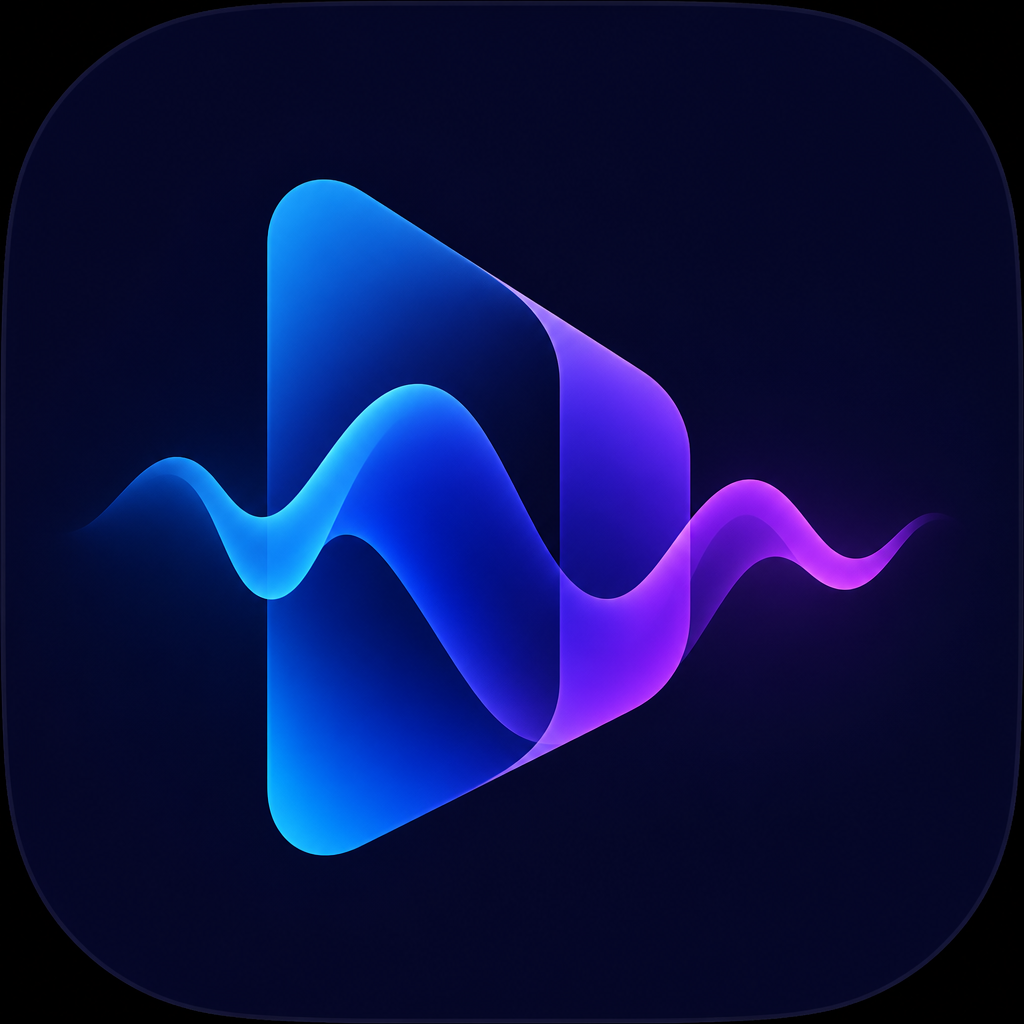
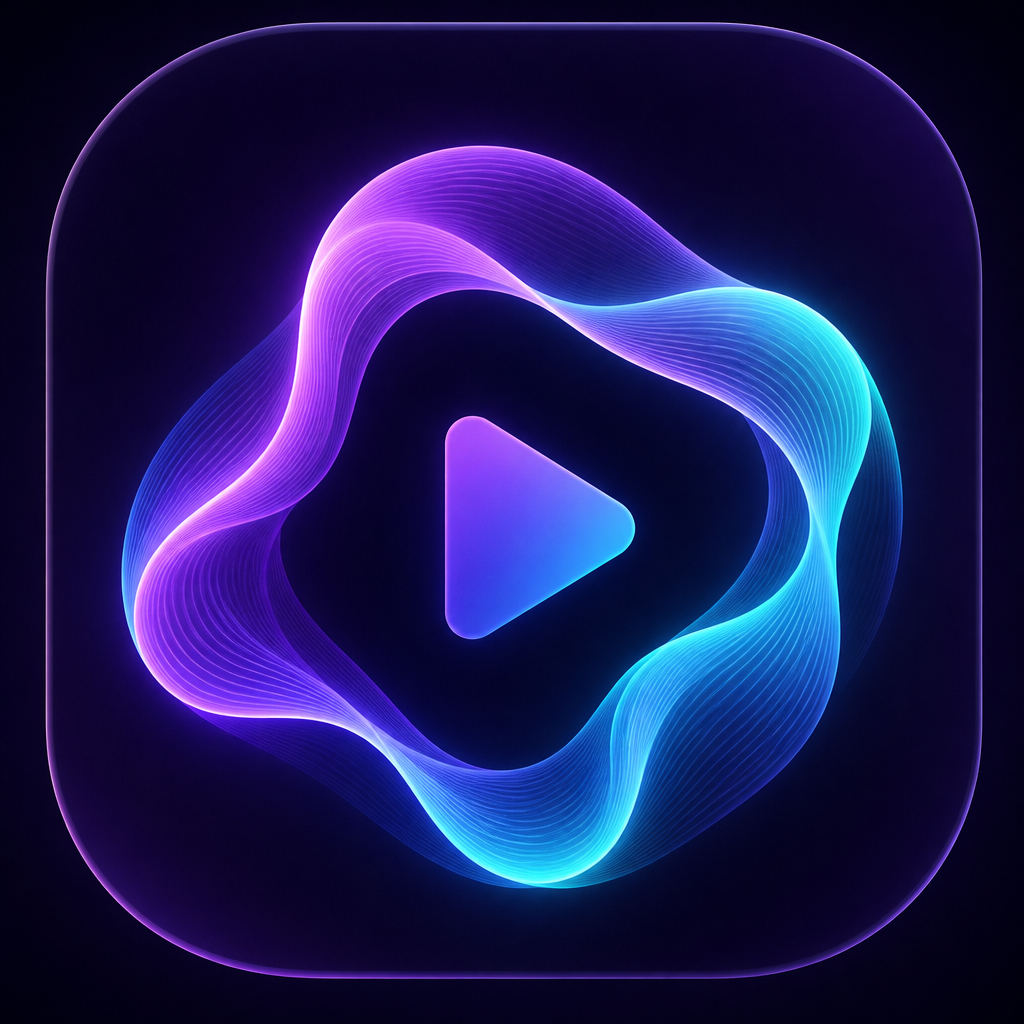
Implement launch animation component and update app configuration
Replit-Commit-Author: Agent

diff --git a/artifacts/offline-music-player/components/LaunchAnimation.tsx b/artifacts/offline-music-player/components/LaunchAnimation.tsx
@@ -1,0 +1,96 @@
+import { LinearGradient } from 'expo-linear-gradient';
+import Animated, {
+  Easing,
+  useAnimatedStyle,
+  useSharedValue,
+  withDelay,
+  withSequence,
+  withTiming,
+} from 'react-native-reanimated';
+import { AccessibilityInfo, Image, StyleSheet, Text, View } from 'react-native';
+import { useEffect, useState } from 'react';
+import { useColors } from '@/hooks/useColors';
+
+const icon = require('@/assets/images/icon.png');
+
+export function LaunchAnimation({ onFinish }: { onFinish: () => void }) {
+  const colors = useColors();
+  const opacity = useSharedValue(1);
+  const markScale = useSharedValue(0.82);
+  const markOpacity = useSharedValue(0);
+  const glowScale = useSharedValue(0.72);
+  const [reduceMotion, setReduceMotion] = useState<boolean | null>(null);
+
+  useEffect(() => {
+    let mounted = true;
+    AccessibilityInfo.isReduceMotionEnabled().then((enabled) => {
+      if (mounted) setReduceMotion(enabled);
+    });
+    const subscription = AccessibilityInfo.addEventListener('reduceMotionChanged', setReduceMotion);
+    return () => {
+      mounted = false;
+      subscription.remove();
+    };
+  }, []);
+
+  useEffect(() => {
+    if (reduceMotion === null) return;
+    if (reduceMotion) {
+      opacity.value = 0;
+      const finishTimer = setTimeout(onFinish, 80);
+      return () => clearTimeout(finishTimer);
+    }
+    markOpacity.value = withDelay(120, withTiming(1, { duration: 420, easing: Easing.out(Easing.cubic) }));
+    markScale.value = withDelay(120, withSequence(
+      withTiming(1.06, { duration: 520, easing: Easing.out(Easing.back(1.3)) }),
+      withTiming(1, { duration: 220, easing: Easing.out(Easing.cubic) }),
+    ));
+    glowScale.value = withSequence(
+      withTiming(1.22, { duration: 900, easing: Easing.out(Easing.quad) }),
+      withTiming(1, { duration: 300 }),
+    );
+    const fadeTimer = setTimeout(() => {
+      opacity.value = withTiming(0, { duration: 300, easing: Easing.out(Easing.cubic) });
+    }, 860);
+    const finishTimer = setTimeout(onFinish, 1180);
+    return () => {
+      clearTimeout(fadeTimer);
+      clearTimeout(finishTimer);
+    };
+  }, [glowScale, markOpacity, markScale, onFinish, opacity, reduceMotion]);
+
+  const overlayStyle = useAnimatedStyle(() => ({ opacity: opacity.value }));
+  const markStyle = useAnimatedStyle(() => ({ opacity: markOpacity.value, transform: [{ scale: markScale.value }] }));
+  const glowStyle = useAnimatedStyle(() => ({ opacity: markOpacity.value * 0.38, transform: [{ scale: glowScale.value }] }));
+
+  return (
+    <Animated.View style={[StyleSheet.absoluteFill, styles.overlay, overlayStyle]}>
+      <LinearGradient colors={[colors.background, colors.accent, colors.background]} locations={[0, 0.48, 1]} style={StyleSheet.absoluteFill} />
+      <View style={styles.center}>
+        <Animated.View style={[styles.glow, { backgroundColor: colors.highlight }, glowStyle]} />
+        <Animated.View style={[styles.markWrap, markStyle]}>
+          <Image source={icon} style={styles.mark} />
+        </Animated.View>
+        <Animated.View style={styles.copy}>
+          <Text style={[styles.name, { color: colors.foreground }]}>LumaWave</Text>
+          <Text style={[styles.tagline, { color: colors.accentForeground }]}>YOUR MUSIC. YOUR MOMENT.</Text>
+        </Animated.View>
+      </View>
+      <View style={styles.bottomNote}><View style={[styles.dot, { backgroundColor: colors.highlight }]} /><Text style={[styles.offline, { color: colors.mutedForeground }]}>OFFLINE BY DESIGN</Text></View>
+    </Animated.View>
+  );
+}
+
+const styles = StyleSheet.create({
+  overlay: { zIndex: 100, backgroundColor: '#0B0C14', alignItems: 'center', justifyContent: 'center' },
+  center: { alignItems: 'center', justifyContent: 'center' },
+  glow: { position: 'absolute', width: 152, height: 152, borderRadius: 76 },
+  markWrap: { width: 112, height: 112, borderRadius: 34, overflow: 'hidden' },
+  mark: { width: '100%', height: '100%' },
+  copy: { alignItems: 'center', marginTop: 22 },
+  name: { fontFamily: 'Inter_700Bold', fontSize: 30, letterSpacing: -0.7 },
+  tagline: { fontFamily: 'Inter_700Bold', fontSize: 9, letterSpacing: 2.1, marginTop: 8 },
+  bottomNote: { position: 'absolute', bottom: 42, flexDirection: 'row', alignItems: 'center', gap: 8 },
+  dot: { width: 6, height: 6, borderRadius: 3 },
+  offline: { fontFamily: 'Inter_700Bold', fontSize: 9, letterSpacing: 1.5 },
+});

diff --git a/artifacts/offline-music-player/constants/colors.ts b/artifacts/offline-music-player/constants/colors.ts
@@ -16,7 +16,7 @@ const colors = {
   light: {
     // Legacy aliases (kept for backward compatibility)
     text: '#F7F8FC',
-    tint: '#8B7CFF',
+    tint: '#A78BFA',
 
     // Core surfaces
     background: '#0C0D12',
@@ -27,49 +27,51 @@ const colors = {
     cardForeground: '#F7F8FC',
 
     // Primary action color (buttons, links, active states)
-    primary: '#8B7CFF',
+    primary: '#A78BFA',
     primaryForeground: '#FFFFFF',
 
     // Secondary / less-emphasis interactive surfaces
-    secondary: '#222431',
+    secondary: '#1D2436',
     secondaryForeground: '#F7F8FC',
 
     // Muted / subdued elements (dividers, timestamps, placeholders)
-    muted: '#242632',
+    muted: '#22283B',
     mutedForeground: '#9295A5',
 
     // Accent highlights (badges, selected items, focus rings)
-    accent: '#312D58',
-    accentForeground: '#D9D5FF',
+    accent: '#30275F',
+    accentForeground: '#E0DAFF',
+    highlight: '#4DE6C2',
 
     // Destructive actions (delete, error states)
     destructive: '#FF6B81',
     destructiveForeground: '#FFFFFF',
 
     // Borders and input outlines
-    border: '#272A37',
-    input: '#2D3040',
+    border: '#2A2E46',
+    input: '#303650',
   },
 
   dark: {
     text: '#F7F8FC',
-    tint: '#8B7CFF',
+    tint: '#A78BFA',
     background: '#0C0D12',
     foreground: '#F7F8FC',
     card: '#171922',
     cardForeground: '#F7F8FC',
-    primary: '#8B7CFF',
+    primary: '#A78BFA',
     primaryForeground: '#FFFFFF',
-    secondary: '#222431',
+    secondary: '#1D2436',
     secondaryForeground: '#F7F8FC',
-    muted: '#242632',
+    muted: '#22283B',
     mutedForeground: '#9295A5',
-    accent: '#312D58',
-    accentForeground: '#D9D5FF',
+    accent: '#30275F',
+    accentForeground: '#E0DAFF',
+    highlight: '#4DE6C2',
     destructive: '#FF6B81',
     destructiveForeground: '#FFFFFF',
-    border: '#272A37',
-    input: '#2D3040',
+    border: '#2A2E46',
+    input: '#303650',
   },
 
   // Border radius (in px). Sync from the sibling web artifact's --radius

diff --git a/artifacts/offline-music-player/app/_layout.tsx b/artifacts/offline-music-player/app/_layout.tsx
@@ -1,4 +1,4 @@
-import React, { useEffect } from 'react';
+import React, { useEffect, useState } from 'react';
 import { QueryClient, QueryClientProvider } from '@tanstack/react-query';
 import { GestureHandlerRootView } from 'react-native-gesture-handler';
 import { KeyboardProvider } from 'react-native-keyboard-controller';
@@ -14,6 +14,8 @@ import {
 import { Stack } from 'expo-router';
 import * as SplashScreen from 'expo-splash-screen';
 import { MusicProvider } from '@/context/MusicContext';
+import { LaunchAnimation } from '@/components/LaunchAnimation';
+import { View } from 'react-native';
 
 // Prevent the splash screen from auto-hiding before asset loading is complete.
 SplashScreen.preventAutoHideAsync();
@@ -22,13 +24,14 @@ const queryClient = new QueryClient();
 
 function RootLayoutNav() {
   return (
-    <Stack screenOptions={{ headerBackTitle: 'Back', animation: 'fade' }}>
+    <Stack screenOptions={{ headerBackTitle: 'Back', animation: 'none' }}>
       <Stack.Screen name="(tabs)" options={{ headerShown: false }} />
     </Stack>
   );
 }
 
 export default function RootLayout() {
+  const [showLaunchAnimation, setShowLaunchAnimation] = useState(true);
   const [fontsLoaded, fontError] = useFonts({
     Inter_400Regular,
     Inter_500Medium,
@@ -49,9 +52,12 @@ export default function RootLayout() {
       <ErrorBoundary>
         <QueryClientProvider client={queryClient}>
           <MusicProvider>
-            <GestureHandlerRootView>
+            <GestureHandlerRootView style={{ flex: 1 }}>
               <KeyboardProvider>
-                <RootLayoutNav />
+                <View style={{ flex: 1 }}>
+                  <RootLayoutNav />
+                  {showLaunchAnimation ? <LaunchAnimation onFinish={() => setShowLaunchAnimation(false)} /> : null}
+                </View>
               </KeyboardProvider>
             </GestureHandlerRootView>
           </MusicProvider>

diff --git a/artifacts/offline-music-player/components/ScreenTransition.tsx b/artifacts/offline-music-player/components/ScreenTransition.tsx
@@ -1,30 +1,6 @@
-import { PropsWithChildren, useCallback } from 'react';
-import { useFocusEffect } from 'expo-router';
-import Animated, {
-  Easing,
-  useAnimatedStyle,
-  useSharedValue,
-  withTiming,
-} from 'react-native-reanimated';
+import { PropsWithChildren } from 'react';
+import { View } from 'react-native';
 
 export function ScreenTransition({ children }: PropsWithChildren) {
-  const progress = useSharedValue(1);
-
-  useFocusEffect(useCallback(() => {
-    progress.value = 0;
-    progress.value = withTiming(1, {
-      duration: 260,
-      easing: Easing.out(Easing.cubic),
-    });
-    return () => {
-      progress.value = withTiming(0, { duration: 140 });
-    };
-  }, [progress]));
-
-  const animatedStyle = useAnimatedStyle(() => ({
-    opacity: progress.value,
-    transform: [{ translateY: (1 - progress.value) * 10 }],
-  }));
-
-  return <Animated.View style={[{ flex: 1 }, animatedStyle]}>{children}</Animated.View>;
+  return <View style={{ flex: 1 }}>{children}</View>;
 }

diff --git a/artifacts/offline-music-player/app/(tabs)/settings.tsx b/artifacts/offline-music-player/app/(tabs)/settings.tsx
@@ -9,7 +9,7 @@ export default function SettingsScreen() {
   const colors = useColors();
   const insets = useSafeAreaInsets();
   const { tracks, addTracks } = useMusic();
-  const showAbout = () => Alert.alert('Offline Music Player', 'A private space for the music you already own. Your library stays on this iPhone.');
+  const showAbout = () => Alert.alert('LumaWave', 'A private space for the music you already own. Your library stays on this iPhone.');
   const topInset = Math.max(insets.top, Platform.OS === 'web' ? 67 : 24);
 
   return (

diff --git a/replit.md b/replit.md
@@ -1,6 +1,6 @@
-# Offline Music Player
+# LumaWave
 
-A private iPhone music player for importing MP3s the user owns and listening offline with background playback.
+A private offline music player for importing MP3s the user owns and listening with background playback on iPhone and iPad.
 
 ## Run & Operate
 
@@ -22,7 +22,7 @@ A private iPhone music player for importing MP3s the user owns and listening off
 
 ## Where things live
 
-- `artifacts/offline-music-player` — Expo mobile app and local music library.
+- `artifacts/offline-music-player` — LumaWave Expo mobile app and local music library.
 - `artifacts/offline-music-player/context/MusicContext.tsx` — AsyncStorage-backed library and Expo Audio playback state.
 - `artifacts/offline-music-player/app/(tabs)` — Home, Library, and Settings screens.
 - `artifacts/offline-music-player/app/player.tsx` — full-screen player.
